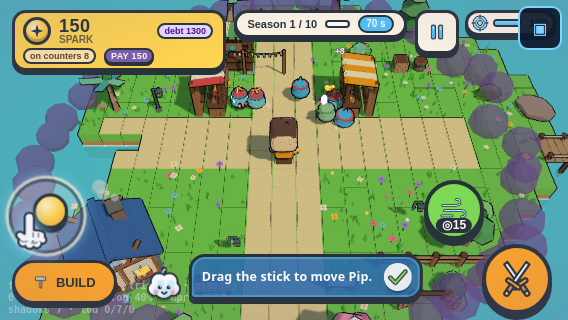
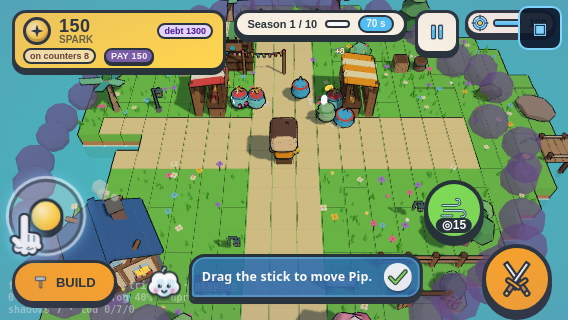
WIP ?: S80-E: final shots script + stick demo hidden under open tray

diff --git a/LUMEN/game/ui/tutor.css b/LUMEN/game/ui/tutor.css
@@ -130,3 +130,6 @@ body.tj-on .ll-joy-hint { opacity: 0 !important; }   /* S60-A: the drawn stick d
   .ll-tutor { font-size: 12.5px; max-width: min(60vw, 400px); }
   .ll-tutor-bub { gap: 4px; padding: 6px 8px 6px 10px; }
 }
+
+/* S80: the drawn stick demo (knob + cloud hand) floated OVER the open shop tray and covered the "pick a card" hint and the Scout Fox card on phones. The tray owns the screen while it is open. */
+body.ll-tray-open .ll-tutor-joy, body.ll-tray-open .ll-tutor-joy.show { display: none !important; }
